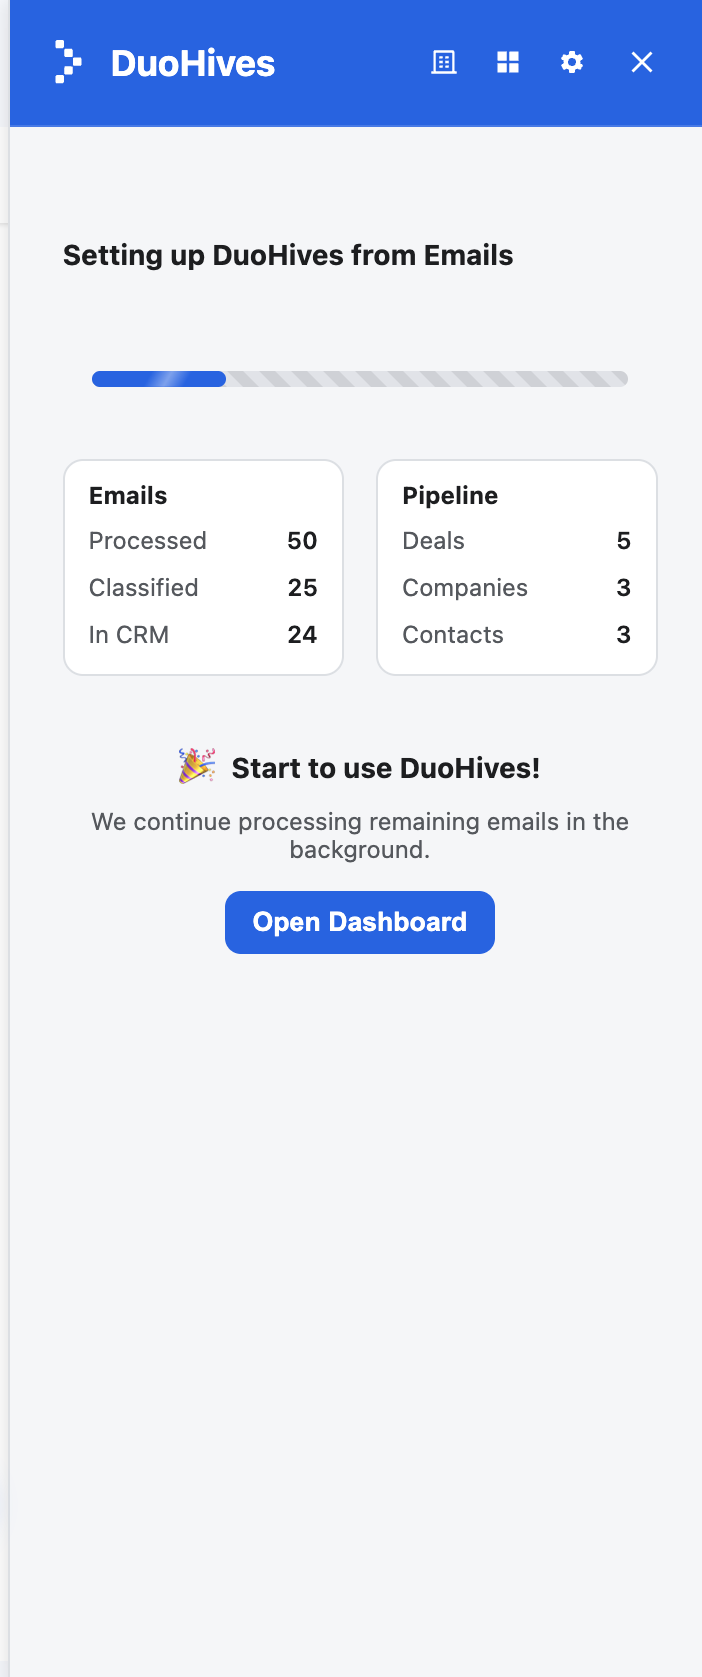
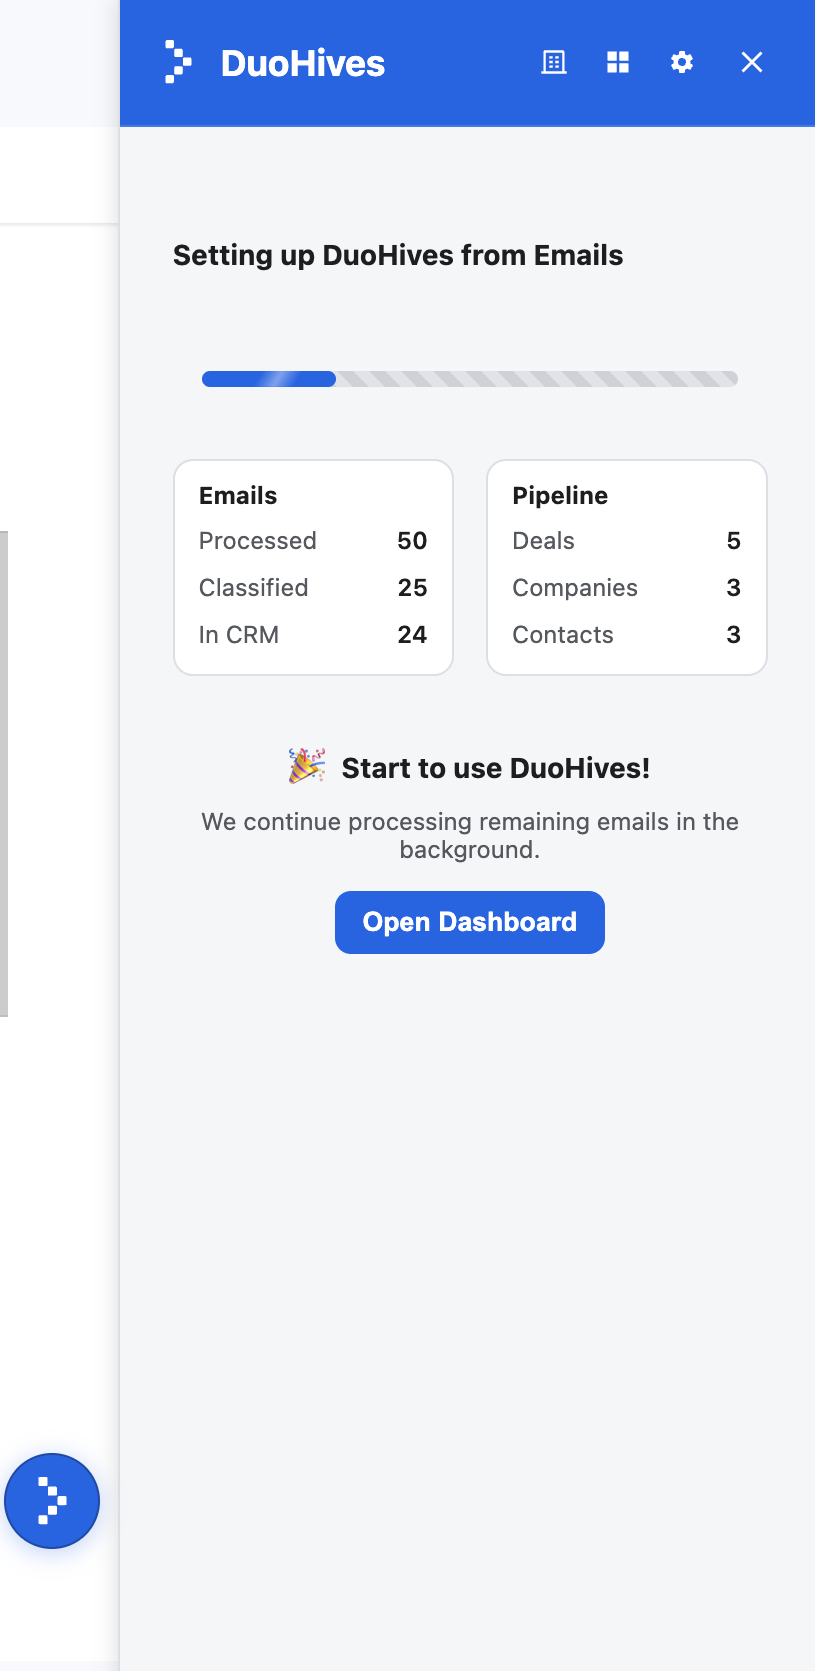
minor

diff --git a/index.html b/index.html
@@ -84,7 +84,7 @@
       <div class="hero-preview-inner">
         <div class="hero-preview-shell">
           <div class="hero-preview-window">
-            <video src="images/placeholders/2.mp4" class="hero-preview-video" autoplay muted loop playsinline poster="images/placeholders/duohives-inbox-preview.png" aria-label="DuoHives inbox assistant preview"></video>
+            <video src="https://drive.google.com/uc?export=download&id=1chuS5e_7uujBs6oZFAJgpsJaujj5UHGX" class="hero-preview-video" autoplay muted loop playsinline poster="images/placeholders/duohives-inbox-preview.png" aria-label="DuoHives inbox assistant preview"></video>
           </div>
         </div>
       </div>
@@ -110,23 +110,7 @@
     </div>
   </div>
 </div>
-<!-- Setup Section -->
-<div class="strip" id="setup">
-  <div class="container pt-6 pb-6 pt-md-10 pb-md-10">
-    <div class="row justify-content-center">
-      <div class="col-12 col-md-10 col-lg-8 text-center">
-        <h1 class="mb-4">Set up in minutes — without the busywork</h1>
-        <ul class="setup-list mb-4">
-          <li>Without SSO rollouts</li>
-          <li>Without CRM migrations</li>
-          <li>Without engineering tickets</li>
-        </ul>
-        <p class="lead mb-4">Connect your email and calendar — DuoHives handles the rest in the background.</p>
-        <a href="#setup" class="btn btn-primary">Start for free</a>
-      </div>
-    </div>
-  </div>
-  </div>
+<!-- Setup Section removed -->
 
   <!-- What is Immigram Platform? (replicated style) -->
   <section class="ig-section" id="immigram-platform">
@@ -177,9 +161,7 @@
         </article>
       </div>
 
-      <div class="ig-cta">
-        <a href="#contact" class="ig-link">See more features</a>
-      </div>
+      
     </div>
   </section>
 
